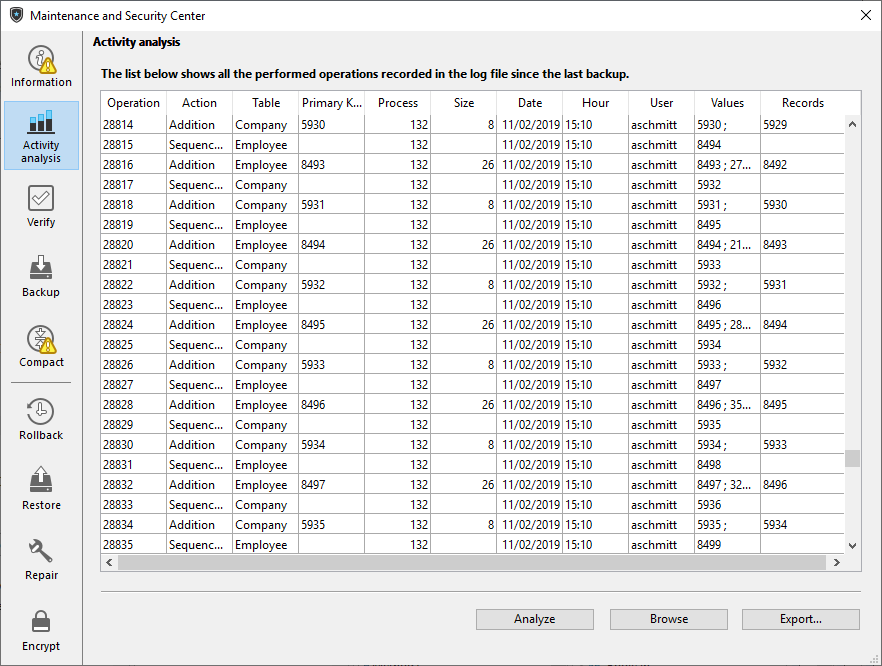
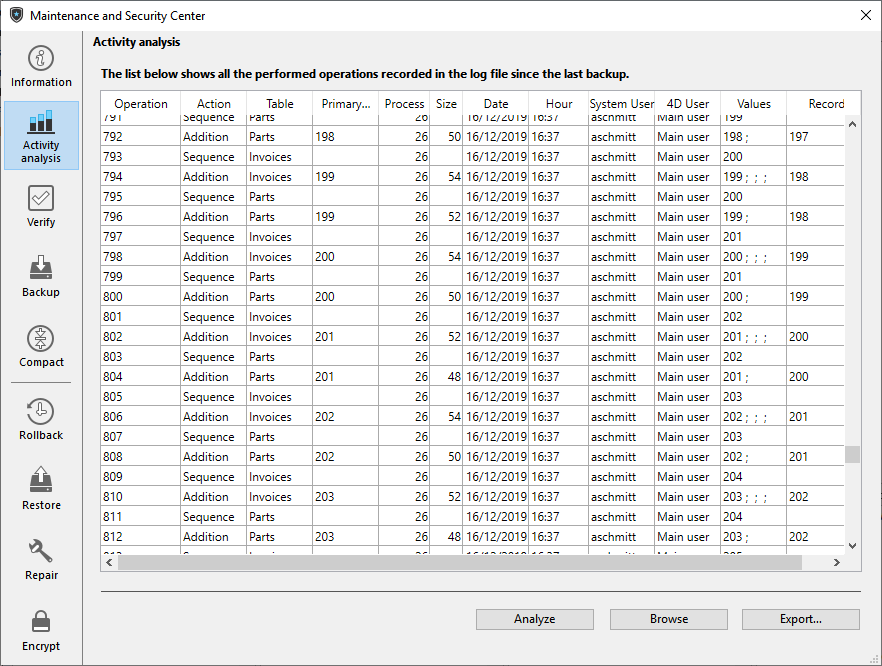
picts ans d 4D user included

diff --git a/docs/MSC/analysis.md b/docs/MSC/analysis.md
@@ -33,7 +33,8 @@ This information allows you to identify the source and context of each operation
 - **Process**: Internal number of process in which the operation was carried out. This internal number corresponds to the context of the operation.
 - **Size**: Size (in bytes) of data processed by the operation.
 - **Date and Hour**: Date and hour when the operation was performed.
-- **User**: Name of the user that performed the operation. In client-server mode, the name of the client-side machine is displayed; in single-user mode, the ID of the user is displayed. If the 4D passwords are not enabled, this column is blank.
+- **System User**: System name of the user that performed the operation. In client-server mode, the name of the client-side machine is displayed; in single-user mode, the session name of the user is displayed.
+- **4D User**: 4D user name of the user that performed the operation. If an alias is defined for the user, the alias is displayed instead of the 4D user name. 
 - **Values**: Values of fields for the record in the case of addition or modification. The values are separated by “;”. Only values represented in alphanumeric form are displayed.  
 ***Note:** If the database is encrypted and no valid data key corresponding to the open log file has been provided, encrypted values are not displayed in this column.*
 - **Records**: Record number.
